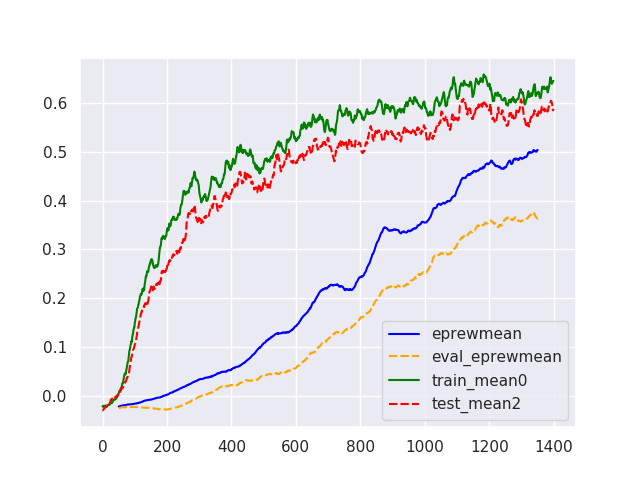
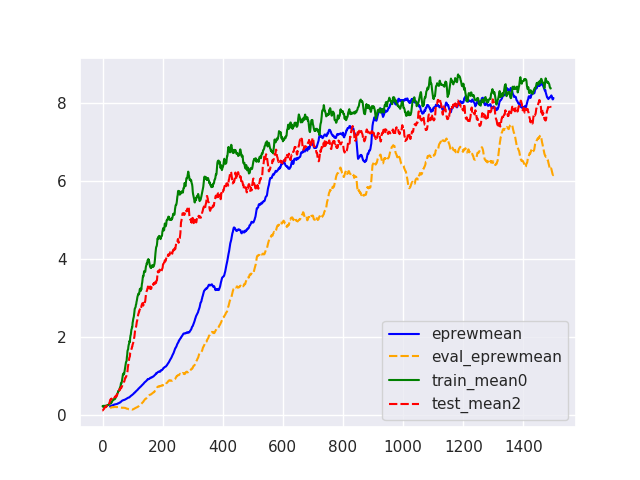
cartpole plotting

diff --git a/train_procgen/train.py b/train_procgen/train.py
@@ -36,106 +36,107 @@ def main():
     timesteps_per_proc = 1_000_000
     use_vf_clipping = True
     dist_mode = "easy"
-    num_trials = 2
 
-    for i_trial in range(num_trials):
-        print("STARTING TRIAL", i_trial)
-        env_name = "visual-cartpole"
-        num_frames = 1
+    i_trial = 1
 
-        num_test_levels = 10
-        num_levels = 1
-        disc_coeff = 0.
-        LOG_DIR = "/home/josh/w_disc_again" + dist_mode + "/" + env_name + "_disc_coeff_" + str(disc_coeff) + "_num_levels_" + str(num_levels) + "_nsteps_" + str(nsteps) + "_num_frames_" + str(num_frames) + "_num_test_levels_" + str(num_test_levels)
-        LOG_DIR += "_trial_" + str(i_trial)
+    # for i_trial in range(num_trials):
+    print("STARTING TRIAL", i_trial)
+    env_name = "visual-cartpole"
+    num_frames = 1
 
-        test_worker_interval = 0
+    num_test_levels = 10
+    num_levels = 1
+    disc_coeff = 1.
+    LOG_DIR = "/home/josh/w_disc_again_vc_" + dist_mode + "/" + env_name + "_disc_coeff_" + str(disc_coeff) + "_num_levels_" + str(num_levels) + "_nsteps_" + str(nsteps) + "_num_frames_" + str(num_frames) + "_num_test_levels_" + str(num_test_levels)
+    LOG_DIR += "_trial_" + str(i_trial)
 
-        comm = MPI.COMM_WORLD
-        rank = comm.Get_rank()
+    test_worker_interval = 0
 
-        is_test_worker = False
+    comm = MPI.COMM_WORLD
+    rank = comm.Get_rank()
 
-        if test_worker_interval > 0:
-            is_test_worker = comm.Get_rank() % test_worker_interval == (test_worker_interval - 1)
+    is_test_worker = False
 
-        mpi_rank_weight = 0 if is_test_worker else 1
+    if test_worker_interval > 0:
+        is_test_worker = comm.Get_rank() % test_worker_interval == (test_worker_interval - 1)
 
-        log_comm = comm.Split(1 if is_test_worker else 0, 0)
-        format_strs = ['csv', 'stdout', 'tensorboard'] if log_comm.Get_rank() == 0 else []
-        logger.configure(dir=LOG_DIR, format_strs=format_strs)
+    mpi_rank_weight = 0 if is_test_worker else 1
 
-        logger.info("creating environment")
+    log_comm = comm.Split(1 if is_test_worker else 0, 0)
+    format_strs = ['csv', 'stdout', 'tensorboard'] if log_comm.Get_rank() == 0 else []
+    logger.configure(dir=LOG_DIR, format_strs=format_strs)
 
-        if env_name == "visual-cartpole":
-            venv = gym.vector.make('cartpole-visual-v1', num_envs=num_envs, num_levels=num_levels, start_level=0)
-            venv.observation_space = gym.spaces.Box(low=0, high=255, shape=(64, 64, 3), dtype=np.uint8)
-            venv.action_space = gym.spaces.Discrete(2)
-        else:
-            venv = ProcgenEnv(num_envs=num_envs, env_name=env_name, num_levels=num_levels, start_level=0, distribution_mode=dist_mode)
-            venv = VecExtractDictObs(venv, "rgb")
+    logger.info("creating environment")
+
+    if env_name == "visual-cartpole":
+        venv = gym.vector.make('cartpole-visual-v1', num_envs=num_envs, num_levels=num_levels, start_level=0)
+        venv.observation_space = gym.spaces.Box(low=0, high=255, shape=(64, 64, 3), dtype=np.uint8)
+        venv.action_space = gym.spaces.Discrete(2)
+    else:
+        venv = ProcgenEnv(num_envs=num_envs, env_name=env_name, num_levels=num_levels, start_level=0, distribution_mode=dist_mode)
+        venv = VecExtractDictObs(venv, "rgb")
 
 
-        venv = VecMonitor(
-            venv=venv, filename=None, keep_buf=100,
-        )
+    venv = VecMonitor(
+        venv=venv, filename=None, keep_buf=100,
+    )
 
-        if num_frames > 1:
-            venv = VecFrameStack(venv, num_frames)
+    if num_frames > 1:
+        venv = VecFrameStack(venv, num_frames)
 
-        venv = VecNormalize(venv=venv, ob=False)
+    venv = VecNormalize(venv=venv, ob=False)
 
-        if env_name == "visual-cartpole":
-            test_venv = gym.vector.make('cartpole-visual-v1', num_envs=num_envs, num_levels=num_test_levels, start_level=1543 + np.random.randint(100))
-            test_venv.observation_space = gym.spaces.Box(low=0, high=255, shape=(64, 64, 3), dtype=np.uint8)
-            test_venv.action_space = gym.spaces.Discrete(2)
-        else:
-            test_venv = ProcgenEnv(num_envs=num_envs, env_name=env_name, num_levels=num_test_levels, start_level=1543 + np.random.randint(100), distribution_mode=dist_mode)
-            test_venv = VecExtractDictObs(test_venv, "rgb")
+    if env_name == "visual-cartpole":
+        test_venv = gym.vector.make('cartpole-visual-v1', num_envs=num_envs, num_levels=num_test_levels, start_level=1543 + np.random.randint(100))
+        test_venv.observation_space = gym.spaces.Box(low=0, high=255, shape=(64, 64, 3), dtype=np.uint8)
+        test_venv.action_space = gym.spaces.Discrete(2)
+    else:
+        test_venv = ProcgenEnv(num_envs=num_envs, env_name=env_name, num_levels=num_test_levels, start_level=1543 + np.random.randint(100), distribution_mode=dist_mode)
+        test_venv = VecExtractDictObs(test_venv, "rgb")
 
-        if num_frames > 1:
-            test_venv = VecFrameStack(test_venv, num_frames)
+    if num_frames > 1:
+        test_venv = VecFrameStack(test_venv, num_frames)
 
-        test_venv = VecMonitor(
-            venv=test_venv, filename=None, keep_buf=100,
-        )
-        test_venv = VecNormalize(venv=test_venv, ob=False)
+    test_venv = VecMonitor(
+        venv=test_venv, filename=None, keep_buf=100,
+    )
+    test_venv = VecNormalize(venv=test_venv, ob=False)
 
-        logger.info("creating tf session")
-        setup_mpi_gpus()
-        config = tf.ConfigProto()
-        config.gpu_options.allow_growth = True #pylint: disable=E1101
-        sess = tf.Session(config=config)
-        sess.__enter__()
+    logger.info("creating tf session")
+    # setup_mpi_gpus()
+    config = tf.ConfigProto()
+    config.gpu_options.allow_growth = True #pylint: disable=E1101
+    sess = tf.Session(config=config)
+    sess.__enter__()
 
-        conv_fn = lambda x: build_impala_cnn(x, depths=[16,32,32], emb_size=256)
+    conv_fn = lambda x: build_impala_cnn(x, depths=[16,32,32], emb_size=256)
 
-        logger.info("training")
-        ppo2.learn(
-            env=venv,
-            network=conv_fn,
-            total_timesteps=timesteps_per_proc,
-            save_interval=0,
-            nsteps=nsteps,
-            nminibatches=nminibatches,
-            lam=lam,
-            gamma=gamma,
-            noptepochs=ppo_epochs,
-            log_interval=1,
-            ent_coef=ent_coef,
-            mpi_rank_weight=mpi_rank_weight,
-            clip_vf=use_vf_clipping,
-            comm=comm,
-            lr=learning_rate,
-            cliprange=clip_range,
-            update_fn=None,
-            init_fn=None,
-            vf_coef=0.5,
-            max_grad_norm=0.5,
-            eval_env=test_venv,
-            num_levels=num_levels,
-            disc_coeff=disc_coeff,
-        )
+    logger.info("training")
+    ppo2.learn(
+        env=venv,
+        network=conv_fn,
+        total_timesteps=timesteps_per_proc,
+        save_interval=0,
+        nsteps=nsteps,
+        nminibatches=nminibatches,
+        lam=lam,
+        gamma=gamma,
+        noptepochs=ppo_epochs,
+        log_interval=1,
+        ent_coef=ent_coef,
+        mpi_rank_weight=mpi_rank_weight,
+        clip_vf=use_vf_clipping,
+        comm=comm,
+        lr=learning_rate,
+        cliprange=clip_range,
+        update_fn=None,
+        init_fn=None,
+        vf_coef=0.5,
+        max_grad_norm=0.5,
+        eval_env=test_venv,
+        num_levels=num_levels,
+        disc_coeff=disc_coeff,
+    )
 
 if __name__ == '__main__':
     main()

diff --git a/plot_grid.py b/plot_grid.py
@@ -86,7 +86,7 @@ def main_sweep2():
             # continue
         procgen_report = "data/procgen_export_data/easy_gen_" + env_name + ".csv"
         try:
-            data = pd.read_csv(f)[:1400]
+            data = pd.read_csv(f)
             data["misc/total_timesteps"] /= 1e6
             reported_data = pd.read_csv(procgen_report)
             # name = f[58:-13]
@@ -98,19 +98,21 @@ def main_sweep2():
 
             if len(data["eprewmean"]) > 2000:
                 data["eprewmean"] = data["eprewmean"].groupby(np.arange(len(data["eprewmean"]))//2).mean()
-            data["eprewmean"] = (data["eprewmean"] - mins[env_name]) / (maxes[env_name] - mins[env_name])
-            my_normalized_returns_train.append(data["eprewmean"])
             if len(data["eval_eprewmean"]) > 2000:
                 data["eval_eprewmean"] = data["eval_eprewmean"].groupby(np.arange(len(data["eval_eprewmean"]))//2).mean()
+            sns.lineplot(data=data[["eprewmean", "eval_eprewmean"]], palette=['blue', 'orange'])
+
+            data["eprewmean"] = (data["eprewmean"] - mins[env_name]) / (maxes[env_name] - mins[env_name])
+            my_normalized_returns_train.append(data["eprewmean"])
             data["eval_eprewmean"] = (data["eval_eprewmean"] - mins[env_name]) / (maxes[env_name] - mins[env_name])
             my_normalized_returns_test.append(data["eval_eprewmean"])
 
-            data = data[:1400]
-            reported_data = reported_data[:1400]
-            sns.lineplot(data=data[["eprewmean", "eval_eprewmean"]], palette=['blue', 'orange'])
+            sns.lineplot(data=reported_data[["train_mean0", "test_mean2"]], palette=['green', 'red'])
+
+            data = data
+            reported_data = reported_data
             reported_data["train_mean0"] = (reported_data["train_mean0"] - mins[env_name]) / (maxes[env_name] - mins[env_name])
             reported_data["test_mean2"] = (reported_data["test_mean2"] - mins[env_name]) / (maxes[env_name] - mins[env_name])
-            sns.lineplot(data=reported_data[["train_mean0", "test_mean2"]], palette=['green', 'red'])
             reported_normalized_returns_train.append(reported_data["train_mean0"])
             reported_normalized_returns_test.append(reported_data["test_mean2"])
 
@@ -125,7 +127,7 @@ def main_sweep2():
     my_normalized_returns_test = pd.DataFrame.from_dict(map(dict, my_normalized_returns_test)).mean(axis=0)
     reported_normalized_returns_train = pd.DataFrame.from_dict(map(dict, reported_normalized_returns_train)).mean(axis=0)
     reported_normalized_returns_test = pd.DataFrame.from_dict(map(dict, reported_normalized_returns_test)).mean(axis=0)
-    final_mean = pd.DataFrame.from_dict(([my_normalized_returns_train, my_normalized_returns_test, reported_normalized_returns_train, reported_normalized_returns_test]))
+    final_mean = pd.DataFrame.from_dict(([my_normalized_returns_train, my_normalized_returns_test, reported_normalized_returns_train, reported_normalized_returns_test]))[:1400]
     final_mean = final_mean.transpose()
     print(final_mean)
     final_mean.columns = ["My Train", "My Test", "Reported Train", "Reported Test"]

diff --git a/plot_grid_cartpole.py b/plot_grid_cartpole.py
@@ -1,0 +1,60 @@
+import seaborn as sns
+import pandas as pd
+import numpy as np
+from glob import glob
+import matplotlib.pyplot as plt
+import matplotlib
+matplotlib.use("TkAgg")
+import os
+from tqdm import tqdm
+import sys
+
+sns.set(style="darkgrid")
+
+def main():
+    AVG_LEN = 1
+    my_returns_train = {"10": [], "5": [], "3": [], "1": []}
+    ppo_returns_train = {"10": [], "5": [], "3": [], "1": []}
+    my_returns_test = {"10": [], "5": [], "3": [], "1": []}
+    ppo_returns_test = {"10": [], "5": [], "3": [], "1": []}
+    for f in tqdm(glob("/home/josh/w_disc_againeasy/*/progress.csv")):
+        if os.stat(f).st_size == 0:
+            continue
+        disc_coeff = f.split("/")[4].split("_")[3]
+        num_training_levels = f.split("/")[4].split("_")[6]
+        if disc_coeff == "0.0":
+            training_list = ppo_returns_train[num_training_levels]
+            testing_list = ppo_returns_test[num_training_levels]
+        else:
+            training_list = my_returns_train[num_training_levels]
+            testing_list = my_returns_test[num_training_levels]
+        try:
+            data = pd.read_csv(f)
+            data["misc/total_timesteps"] /= 1e6
+            # name = f[58:-13]
+            name = str.split(f, "/")[4]
+
+            if AVG_LEN > 1:
+                data["eprewmean"] = data["eprewmean"].rolling(AVG_LEN, center=True).mean()
+                data["eval_eprewmean"] = data["eval_eprewmean"].rolling(AVG_LEN, center=True).mean()
+
+            training_list.append(data[["eprewmean", "eval_eprewmean", "misc/total_timesteps"]])
+
+        except Exception as e:
+            print(f, "FAILED with ", e)
+            continue
+
+    for num_train_levels in my_returns_train:
+        my_returns_train_level = pd.concat(my_returns_train[num_train_levels], axis=0)
+        my_returns_train_level.columns = ["W Domain Confusion Train", "W Domain Confusion Test", "Environment Steps"]
+        ppo_returns_train_level = pd.concat(ppo_returns_train[num_train_levels], axis=0)
+        ppo_returns_train_level.columns = ["PPO Train", "PPO Test", "Environment Steps"]
+
+        finals = pd.concat([my_returns_train_level, ppo_returns_train_level], axis=0)
+        finals = pd.melt(finals, ["Environment Steps"])
+
+        sns.lineplot(data=finals, hue="variable", y="value", x="Environment Steps")
+        plt.show()
+
+if __name__ == "__main__":
+    main()
